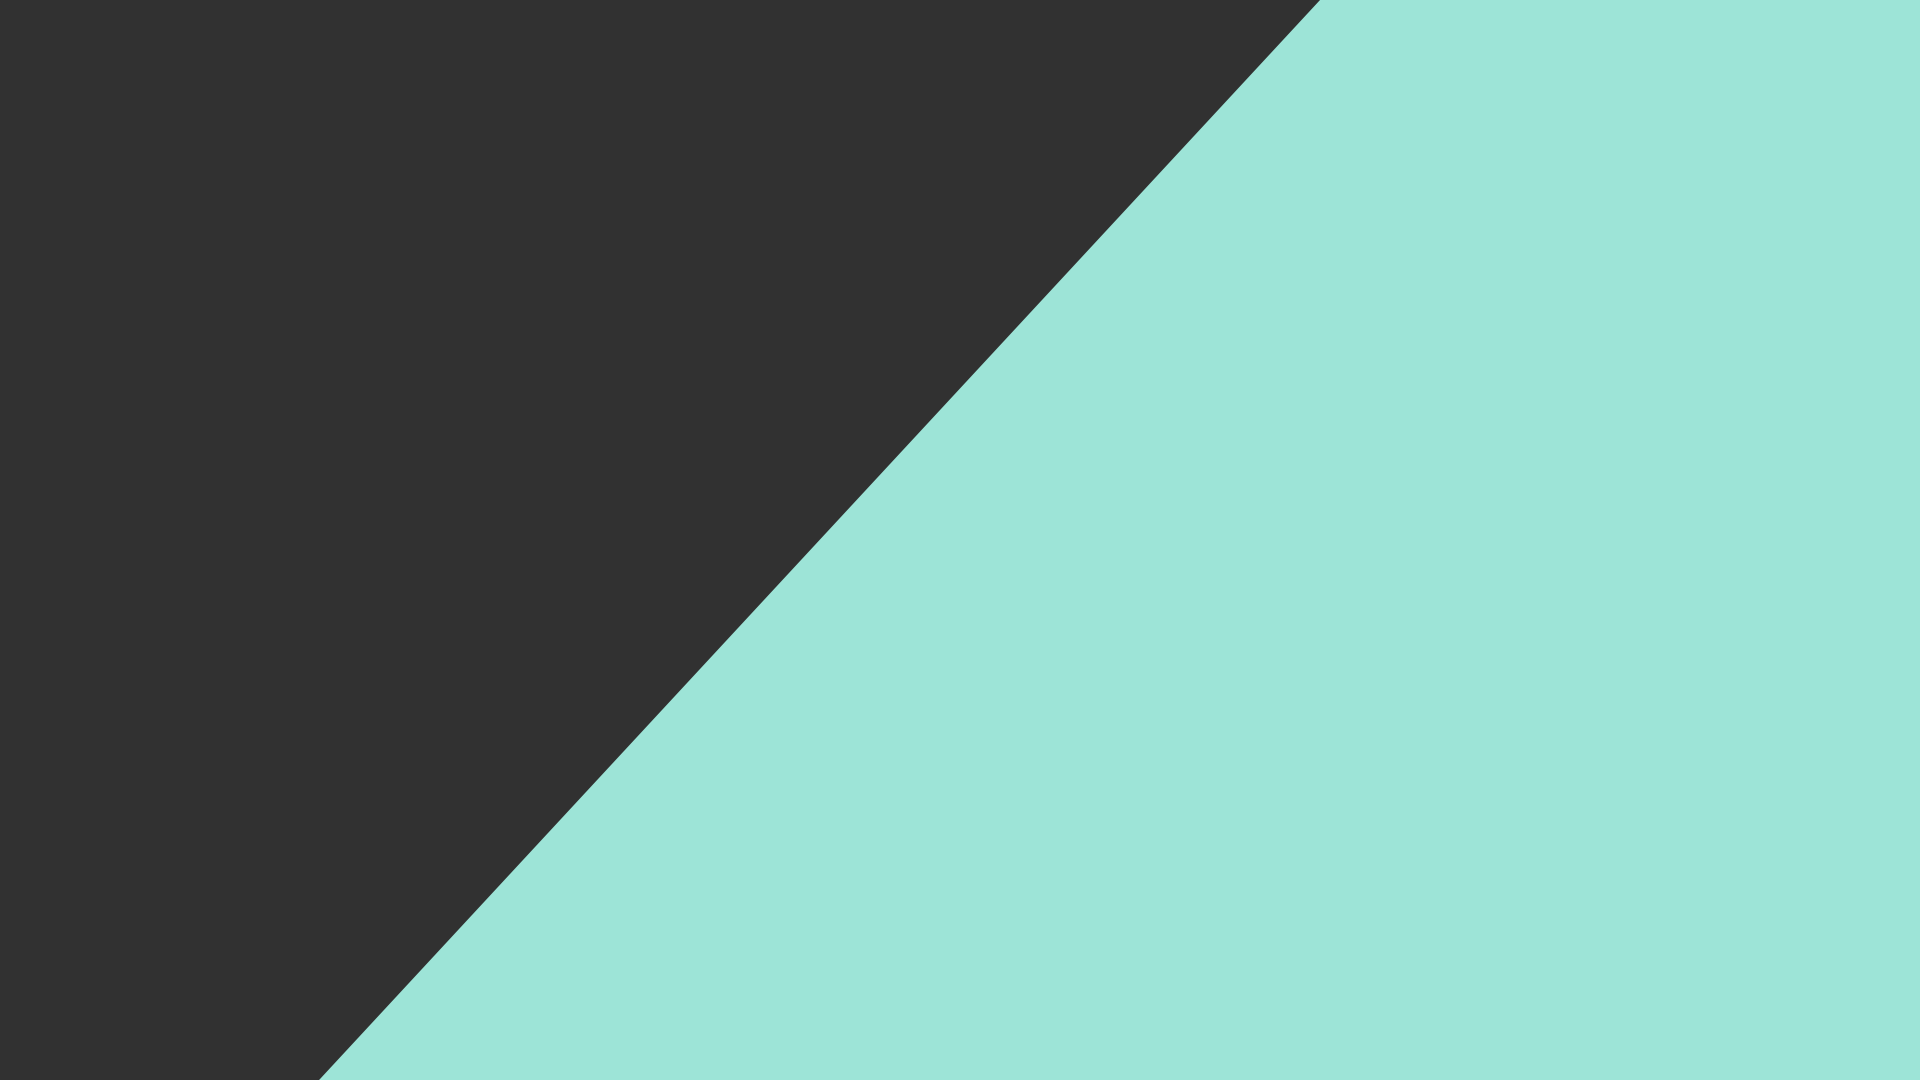
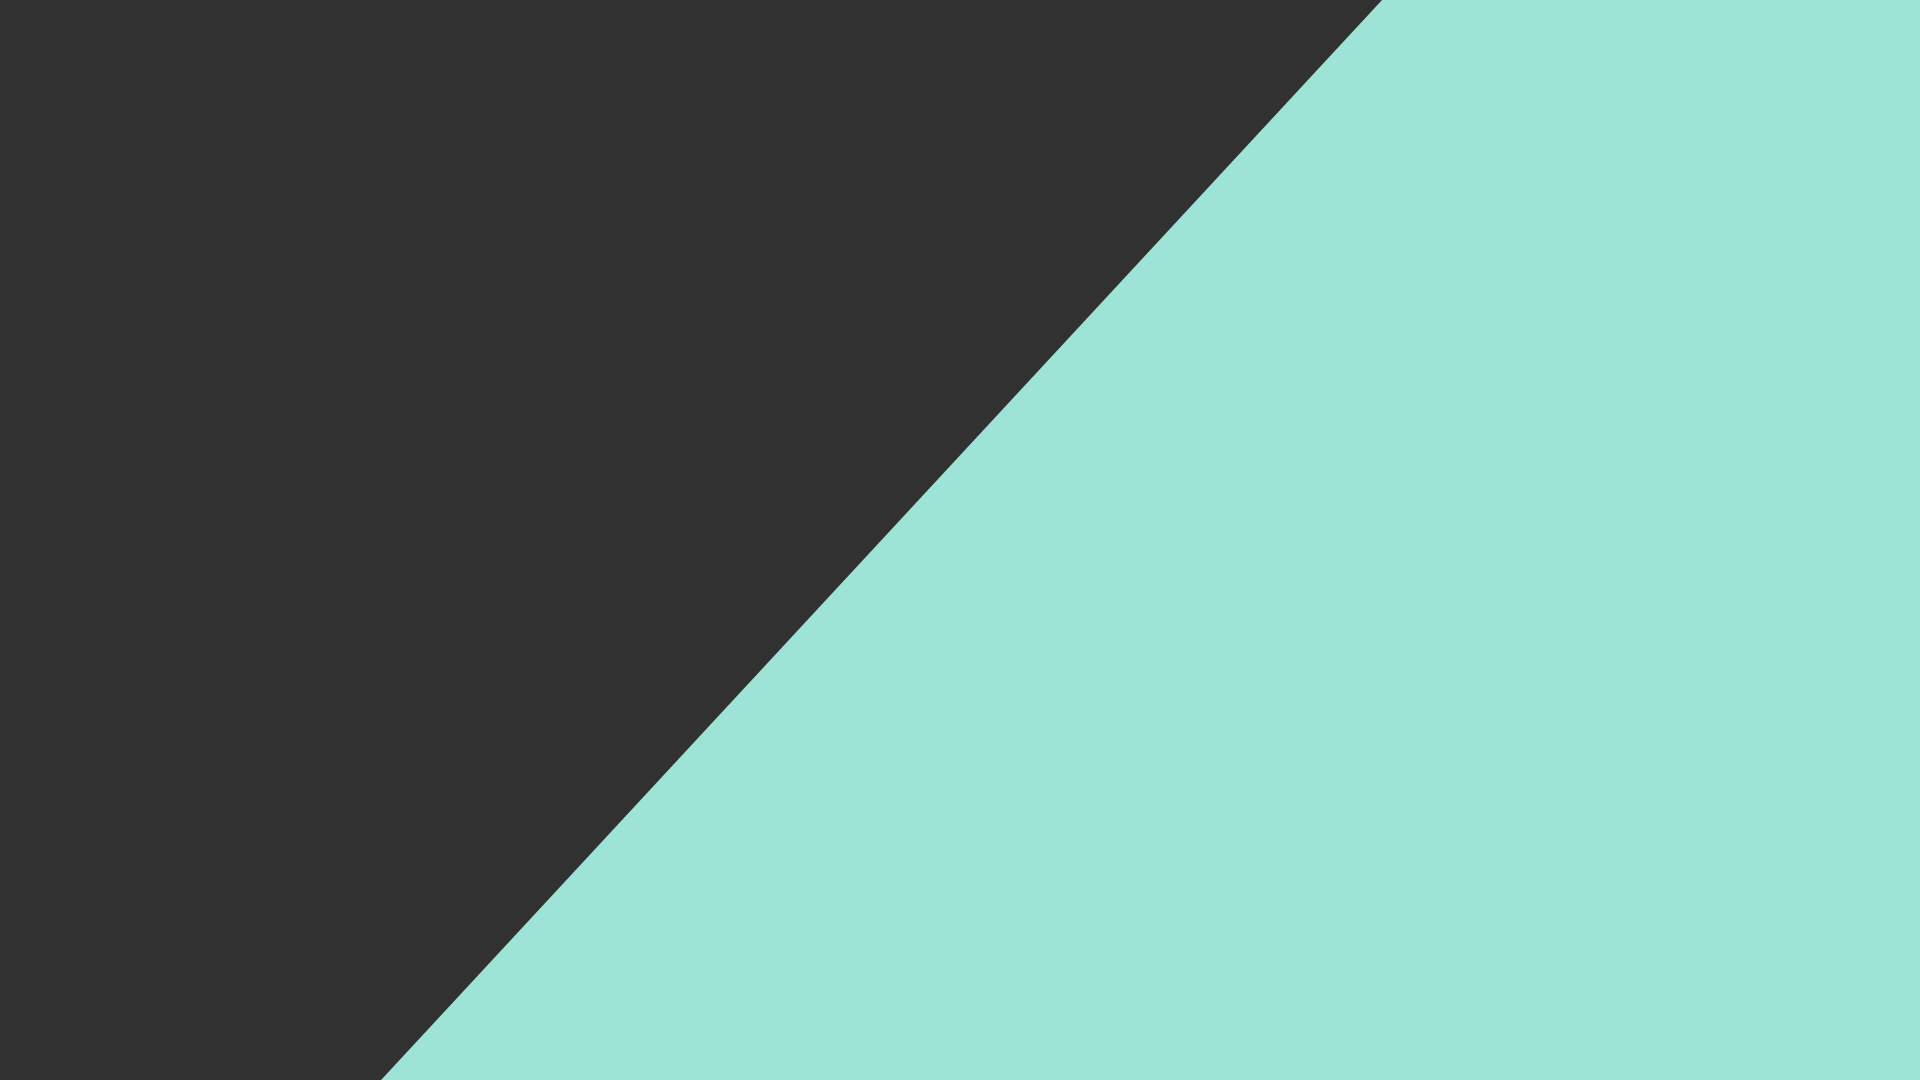
Responsiveness finishing touches

Changed region(s): [[0.1562, 0.0, 0.7188, 1.0]]

diff --git a/src/pages/Work.js b/src/pages/Work.js
@@ -76,22 +76,15 @@ class Work extends React.Component {
               position: "relative"
             }}
           >
-            <h1 style={{ textShadow: "2px 3px 3px #242525" }}>
+            <h1
+              className="workHeader"
+              style={{ textShadow: "2px 3px 3px #242525" }}
+            >
               What We've Built
             </h1>
-            <p
-              style={{
-                margin: "auto",
-
-                textAlign: "center",
-                fontSize: 18
-              }}
-            >
-              Check out some projects we're proud of
-            </p>
 
             <div id="workCardContainer">
-              <AnchorLink href="#workCardContainer">
+              <AnchorLink href={this.state.mobile ? "" : "#workCardContainer"}>
                 <WorkCard
                   isMobile={this.state.mobile}
                   resetCards={this.resetCards}
@@ -117,7 +110,7 @@ class Work extends React.Component {
                   developText="User interface/experience, protoyping, layout, database design, deployment. We took Phit from inital concept to completion. We are currently in the process of migrating Phit to a new host, so it may take a minute to start up"
                 />
               </AnchorLink>
-              <AnchorLink href="#workCardContainer">
+              <AnchorLink href={this.state.mobile ? "" : "#workCardContainer"}>
                 <WorkCard
                   isMobile={this.state.mobile}
                   resetCards={this.resetCards}
@@ -144,15 +137,17 @@ class Work extends React.Component {
                   developText="User interface/experience, layout, re-design. We completely re-designed and modernized AE's old website to the current sleek and mobile friendly site you see now"
                 />
               </AnchorLink>
-              <AnchorLink href="#workCardContainer">
+              <AnchorLink href={this.state.mobile ? "" : "#workCardContainer"}>
                 <WorkCard
                   isMobile={this.state.mobile}
                   resetCards={this.resetCards}
                   cardBackground={
-                    this.state.isClicked[1] ? darkSkyGreens : darkSkyGreens
+                    this.state.isClicked[2]
+                      ? darkSkyGreens
+                      : darkSkyGreensMobile
                   }
                   index={2}
-                  mobileCard={darkSkyGreens}
+                  mobileCard={darkSkyGreensMobile}
                   webCard={darkSkyGreens}
                   isClicked={this.state.isClicked[2]}
                   onClick={this.clickCard}

diff --git a/src/components/WorkCard.js b/src/components/WorkCard.js
@@ -9,7 +9,12 @@ export default function WorkCard(props) {
     cardClass,
     cardBackground,
     isMobile,
-    mobileCard
+    mobileCard,
+    cardTitle,
+    designHeader,
+    designText,
+    developHeader,
+    developText
   } = props;
   return isMobile ? (
     <div
@@ -20,24 +25,15 @@ export default function WorkCard(props) {
     >
       <img src={mobileCard} className="card" alt="mobile" />
       <div className="mobileCard">
-        <h1>Example Text</h1>
+        <h1 style={{ textShadow: "3px 3px 5px #00000057" }}>{cardTitle}</h1>
+
         <div className="flavor" style={{ paddingBottom: 0 }}>
-          <h3>Header Text</h3>
-          <p>
-            Lorem Ipsum is simply dummy text of the printing and typesetting
-            industry. Lorem Ipsum has been the industry's standard dummy text
-            ever since the 1500s, when an unknown printer took a galley of type
-            and scrambled it to make a type specimen book.
-          </p>
+          <h3 style={{ color: "#5a4361" }}>{designHeader}</h3>
+          <p style={{ textAlign: "left", color: "#313131" }}>{designText}</p>
         </div>
         <div className="flavor">
-          <h3>Header Text</h3>
-          <p>
-            Lorem Ipsum is simply dummy text of the printing and typesetting
-            industry. Lorem Ipsum has been the industry's standard dummy text
-            ever since the 1500s, when an unknown printer took a galley of type
-            and scrambled it to make a type specimen book.
-          </p>
+          <h3 style={{ color: "#5a4361" }}>{developHeader}</h3>
+          <p style={{ textAlign: "left", color: "#313131" }}>{developText}</p>
         </div>
       </div>
     </div>
@@ -64,9 +60,7 @@ export default function WorkCard(props) {
         className={`card ${cardClass}`}
       >
         <div className="cardContent">
-          <h1 style={{ marginBottom: 30, textShadow: "3px 3px 5px #00000057" }}>
-            {cardTitle}
-          </h1>
+          <h1 style={{ textShadow: "3px 3px 5px #00000057" }}>{cardTitle}</h1>
           <div
             className="flavor"
             style={{

diff --git a/src/pages/About.js b/src/pages/About.js
@@ -6,6 +6,8 @@ import Alex from "../components/images/alex.png";
 import Barry from "../components/images/barry.png";
 import Scotty from "../components/images/scotty.jpg";
 
+const scot = `Sales${<br />}Consultant`;
+
 export default function About() {
   return (
     <Fragment>
@@ -24,6 +26,7 @@ export default function About() {
       <div className="container">
         <div className="aboutMain">
           <h1
+            className="aboutHeader"
             style={{ float: "right", position: "absolute", top: -80, right: 0 }}
           >
             About
@@ -53,22 +56,32 @@ export default function About() {
               ? Easy.
             </p>
           </div>
-          <div style={{ display: "flex", justifyContent: "center" }}>
+          <div
+            style={{
+              alignItems: "start",
+              display: "flex",
+              justifyContent: "center",
+              flexWrap: "wrap"
+            }}
+          >
             <AboutCard
               aboutText="Co-Founder, Designer, Developer"
               aboutPicture={Alex}
+              name="Alex Lloyd"
               emailAddress="mailto:alex@monstertooth.tech"
               email="Alex@monstertooth.tech"
             />
             <AboutCard
               aboutText="Co-Founder, Designer, Developer"
               aboutPicture={Barry}
+              name="Barry Riveroll"
               emailAddress="mailto:barry@monstertooth.tech"
               email="Barry@monstertooth.tech"
             />
             <AboutCard
               aboutText="Sales Consultant"
               aboutPicture={Scotty}
+              name="Scotty Kirchner"
               emailAddress="mailto:scotty@monstertooth.tech"
               email="Scotty@monstertooth.tech"
             />

diff --git a/src/components/AboutCard.js b/src/components/AboutCard.js
@@ -1,24 +1,50 @@
 import React, { Fragment } from "react";
 
 export default function AboutCard(props) {
-  const { aboutText, aboutPicture, emailAddress, email } = props;
+  const { aboutText, aboutPicture, emailAddress, email, name } = props;
   return (
-    <div style={{ display: "flex", flexDirection: "column" }}>
+    <div
+      style={{
+        display: "flex",
+        flexDirection: "column",
+        justifyContent: "center",
+        textAlign: "center"
+      }}
+    >
       <div className="aboutCard">
-        <img style={{ width: "inherit" }} src={aboutPicture} />
-        <p
-          style={{
-            fontSize: 23,
-            color: "white",
-            margin: "0px auto",
-            padding: 5,
-            textAlign: "center"
-          }}
-        >
-          {aboutText}
-        </p>
+        <img src={aboutPicture} />
       </div>
       <div className="aboutContact">
+        <p style={{ margin: 6 }}>{name}</p>
+
+        {aboutText === "Sales Consultant" ? (
+          <p
+            style={{
+              width: 100,
+              fontSize: 17,
+              color: "#313131",
+              margin: "0px auto",
+              padding: 5,
+              textAlign: "center"
+            }}
+          >
+            {aboutText}
+          </p>
+        ) : (
+          <p
+            style={{
+              width: 200,
+              fontSize: 17,
+              color: "#313131",
+              margin: "0px auto",
+              padding: 5,
+              textAlign: "center"
+            }}
+          >
+            {aboutText}
+          </p>
+        )}
+
         <h5>
           <a href={emailAddress}>{email}</a>
         </h5>

diff --git a/src/index.css b/src/index.css
@@ -76,8 +76,8 @@ p {
   margin: -25px;
   background-image: linear-gradient(
     176deg,
-    rgba(245, 245, 245, 1) 22%,
-    rgb(49, 49, 49) 22.1%
+    rgba(245, 245, 245, 1) 13%,
+    rgb(49, 49, 49) 13.1%
   );
   background-position: top;
   background-repeat: no-repeat;
@@ -88,6 +88,14 @@ p {
     rgba(245, 245, 245, 1) 22%,
     rgba(157, 228, 215, 0) 22.1%
   );
+}
+
+#snaggle {
+  transform: rotate(161deg);
+  position: fixed;
+  bottom: 13.5%;
+  left: 9%;
+  width: 93px;
 }
 
 /* Smartphones (portrait and landscape) ----------- */
@@ -123,5 +131,49 @@ p {
 
   .flavorLeft {
     border-right: none !important;
+  }
+
+  #workCardContainer {
+    flex-wrap: wrap;
+  }
+
+  footer h1 {
+    font-size: 20px !important;
+  }
+
+  .contactLinks {
+    display: block !important;
+  }
+
+  .footContent div {
+    padding: 5px;
+  }
+
+  iframe {
+    width: 90% !important;
+  }
+  .chevron {
+    display: none;
+  }
+  .chevronFlip {
+    display: none;
+  }
+  #snaggle {
+    bottom: 16% !important;
+    left: 25% !important;
+    width: 76px !important;
+  }
+
+  html {
+    overflow-x: hidden;
+  }
+  .workHeader {
+    text-align: center;
+  }
+  .aboutHeader {
+    top: -71px !important;
+  }
+  .contactHeader {
+    margin-top: 186px !important;
   }
 }

diff --git a/src/pages/Contact.js b/src/pages/Contact.js
@@ -5,20 +5,24 @@ export default function Contact() {
   return (
     <div className="container">
       <div className="contactIntro">
-        <h1 id="contact" style={{ textAlign: "center", marginTop: 330 }}>
+        <h1
+          className="contactHeader"
+          id="contact"
+          style={{ textAlign: "center", marginTop: 155 }}
+        >
           We Don't Bite
         </h1>
       </div>
 
       <div
         className="miniContainer"
-        style={{ color: "#f5f5f5", marginTop: 15 }}
+        style={{ color: "#f5f5f5", padding: "20px 50px" }}
       >
         <p>
           No matter what stage of the planning/building process you are at, we
           are happy to help. Fill out the form below and tell us a little bit
           about what you want. If that feels to impersonal though, you can
-          always shoot any of us a direct email :D
+          always shoot any of us a direct email.
         </p>
       </div>
       <div style={{ display: "flex", justifyContent: "center" }}>

diff --git a/src/components/Footer.js b/src/components/Footer.js
@@ -16,23 +16,14 @@ export default class Footer extends Component {
           alignItems: "flex-end"
         }}
       >
-        <img
-          src={Logo}
-          style={{
-            transform: "rotate(161deg)",
-            position: "fixed",
-            bottom: "11%",
-            left: "9%",
-            width: "6%"
-          }}
-        />
+        <img id="snaggle" src={Logo} />
         <div className="footWrap">
           <div className="footContent">
             <div className="credits">
               <div className="creditHeader">
                 <h1 style={{ fontSize: 30 }}>Credits</h1>
               </div>
-              <p style={{ width: "250px" }}>
+              <p>
                 Icons made by{" "}
                 <a
                   href="https://www.flaticon.com/<?=_('authors').'/'?>surang"

diff --git a/src/App.js b/src/App.js
@@ -15,9 +15,7 @@ class App extends React.Component {
   };
 
   handleScroll = () => {
-    console.log("I AM BODY HEIGHT " + this.state.bodyHeight);
     let scroll = window.scrollY;
-    console.log(scroll);
     if (scroll >= 0.93 * this.state.bodyHeight) {
       this.setState({ nextPosition: "#landing" });
     } else if (scroll >= 0.7 * this.state.bodyHeight) {

diff --git a/src/pages/about.css b/src/pages/about.css
@@ -20,6 +20,10 @@
   box-shadow: 1px 2px 7px 0px #0000004a;
 }
 .aboutContact {
-  padding: 0 40px;
-  margin-top: -30px;
+  margin-top: -17px;
+}
+
+.aboutContact h5 {
+  margin-top: 7px;
+  margin-bottom: 5px;
 }

diff --git a/src/pages/contact.css b/src/pages/contact.css
@@ -1,6 +1,4 @@
 .contactIntro {
-  height: 322px;
-  padding-top: 44px;
   display: flex;
   flex-wrap: wrap;
   flex-direction: column;

diff --git a/src/components/Footer.css b/src/components/Footer.css
@@ -21,4 +21,9 @@ footer a:hover {
 
 .footContent {
   display: flex;
+  justify-content: center;
+}
+
+.credits {
+  width: 43%;
 }
